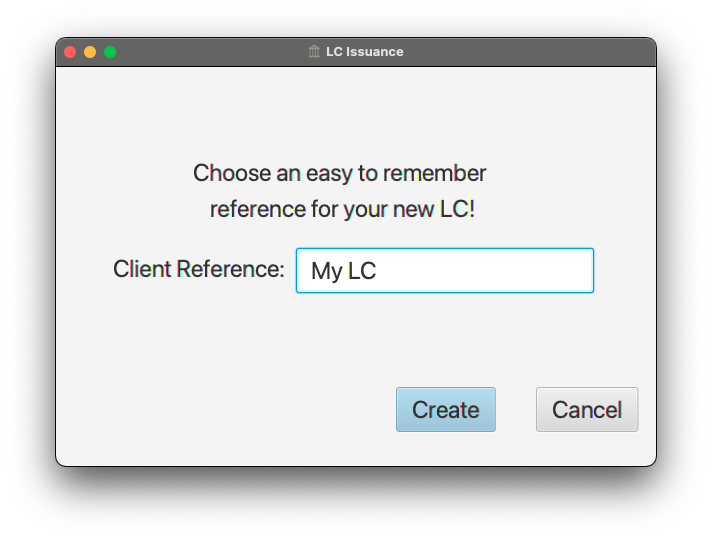
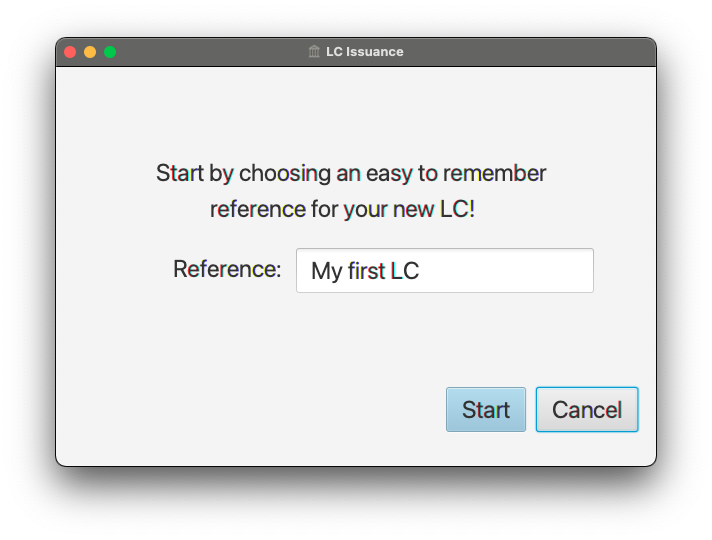
Renamed create LC to start LC

Changed region(s): [[0.1545, 0.4444, 0.8343, 0.563], [0.2163, 0.2963, 0.7725, 0.3556], [0.5562, 0.7111, 0.8961, 0.8]]

diff --git a/ch06/src/test/java/com/premonition/lc/issuance/ui/views/StartLCViewTests.java b/ch06/src/test/java/com/premonition/lc/issuance/ui/views/StartLCViewTests.java
@@ -31,7 +31,7 @@ import static org.testfx.matcher.base.NodeMatchers.isVisible;
 
 @Log4j2
 @UITest
-public class CreateLCViewTests {
+public class StartLCViewTests {
 
     @MockBean
     private BackendService service;
@@ -46,7 +46,7 @@ public class CreateLCViewTests {
 
     @Start
     public void start(Stage stage) {
-        final Parent parent = FluentViewLoader.fxmlView(CreateLCView.class)
+        final Parent parent = FluentViewLoader.fxmlView(StartLCView.class)
                 .providedScopes(new UserScope("admin"))
                 .load().getView();
         stage.setScene(new Scene(parent));
@@ -54,43 +54,42 @@ public class CreateLCViewTests {
     }
 
     @Test
-    void createShouldUpdateCreateButtonStatusBasedOnClientReferenceAsBlank(FxRobot robot) {
-        final String createButton = "#create-button";
+    void startButtonShouldBeDisabledForBlankValue(FxRobot robot) {
+        final String startButton = "#start-button";
         robot.lookup("#client-reference").queryAs(TextField.class).setText("");
 
-        verifyThat(createButton, LabeledMatchers.hasText("Create"));
-        verifyThat(createButton, NodeMatchers.isDisabled());
+        verifyThat(startButton, LabeledMatchers.hasText("Start"));
+        verifyThat(startButton, NodeMatchers.isDisabled());
     }
 
     @Test
-    void createShouldUpdateCreateButtonStatusBasedOnClientReferenceAsFilledIn(FxRobot robot) {
-        final String createButton = "#create-button";
+    void startButtonShouldBeEnabledForValidValue(FxRobot robot) {
+        final String startButton = "#start-button";
         robot.lookup("#client-reference").queryAs(TextField.class).setText("Test");
-        verifyThat(createButton, LabeledMatchers.hasText("Create"));
-        verifyThat(createButton, NodeMatchers.isEnabled());
+        verifyThat(startButton, LabeledMatchers.hasText("Start"));
+        verifyThat(startButton, NodeMatchers.isEnabled());
     }
 
     @Test
     @RunInUiThread(false)
     void shouldLaunchLCDetailsWhenCreationIsSuccessful(FxRobot robot) throws InterruptedException {
         LCApplicationId lcApplicationId = LCApplicationId.randomId();
-        when(service.createLC(anyString(), anyString())).thenReturn(lcApplicationId);
+        when(service.startNewLC(anyString(), anyString())).thenReturn(lcApplicationId);
         final String clientReference = "Test";
         robot.lookup("#client-reference").queryAs(TextField.class).setText(clientReference);
-        robot.clickOn("#create-button");
-        Mockito.verify(service).createLC("admin", clientReference);
+        robot.clickOn("#start-button");
+        Mockito.verify(service).startNewLC("admin", clientReference);
         verifyThat("#lc-details", isVisible());
         Assertions.assertTrue(((Stage) robot.window(0)).getTitle().contains(lcApplicationId.toString()));
-//        verifyThat("#client-reference", LabeledMatchers.hasText(clientReference));
     }
 
     @Test
     @RunInUiThread(false)
     void shouldStayOnCreateLCScreenOnCreationFailure(FxRobot robot) {
         final String clientReference = "Test";
-        when(service.createLC("admin", clientReference)).thenThrow(new RuntimeException("Failed!!"));
+        when(service.startNewLC("admin", clientReference)).thenThrow(new RuntimeException("Failed!!"));
         robot.lookup(".text-field").queryAs(TextField.class).setText(clientReference);
         robot.clickOn(".button");
-        verifyThat("#create-lc", isVisible());
+        verifyThat("#start-lc", isVisible());
     }
 }

diff --git a/ch06/src/test/java/com/premonition/lc/issuance/ui/viewmodels/StartLCViewModelTests.java b/ch06/src/test/java/com/premonition/lc/issuance/ui/viewmodels/StartLCViewModelTests.java
@@ -7,19 +7,16 @@ import org.junit.jupiter.api.extension.ExtendWith;
 import org.junit.jupiter.params.ParameterizedTest;
 import org.junit.jupiter.params.provider.Arguments;
 import org.junit.jupiter.params.provider.MethodSource;
-import org.junit.jupiter.params.provider.ValueSource;
-import org.junit.runners.Parameterized;
 import org.junit.runners.Parameterized.Parameters;
 import org.mockito.Mock;
 import org.mockito.junit.jupiter.MockitoExtension;
 
-import java.util.Arrays;
 import java.util.stream.Stream;
 
 import static org.assertj.core.api.Assertions.assertThat;
 
 @ExtendWith(MockitoExtension.class)
-class CreateLCViewModelTests {
+class StartLCViewModelTests {
 
     @Mock
     private BackendService service;
@@ -32,7 +29,7 @@ class CreateLCViewModelTests {
         viewModel.setUserScope(new UserScope("admin"));
     }
 
-    @Parameters(name = "{index}: For client reference \"{0}\" create disabled should be {1}")
+    @Parameters(name = "{index}: For client reference \"{0}\" start disabled should be {1}")
     public static Stream<Arguments> data() {
         return Stream.of(
                 Arguments.of(null, true),
@@ -49,29 +46,29 @@ class CreateLCViewModelTests {
     @MethodSource("data")
     void shouldTest(String clientReference, boolean expected) {
         viewModel.setClientReference(clientReference);
-        assertThat(viewModel.getCreateDisabled()).isEqualTo(expected);
+        assertThat(viewModel.getStartDisabled()).isEqualTo(expected);
     }
 
     @Test
     void shouldNotEnableCreateByDefault() {
-        assertThat(viewModel.getCreateDisabled()).isTrue();
+        assertThat(viewModel.getStartDisabled()).isTrue();
     }
 
     @Test
     void shouldNotEnableCreateIfClientReferenceLesserThanMinimumLength() {
         viewModel.setClientReference("123");
-        assertThat(viewModel.getCreateDisabled()).isTrue();
+        assertThat(viewModel.getStartDisabled()).isTrue();
     }
 
     @Test
     void shouldEnableCreateIfClientReferenceEqualToMinimumLength() {
         viewModel.setClientReference("1234");
-        assertThat(viewModel.getCreateDisabled()).isFalse();
+        assertThat(viewModel.getStartDisabled()).isFalse();
     }
 
     @Test
     void shouldEnableCreateIfClientReferenceGreaterThanMinimumLength() {
         viewModel.setClientReference("12345");
-        assertThat(viewModel.getCreateDisabled()).isFalse();
+        assertThat(viewModel.getStartDisabled()).isFalse();
     }
 }

diff --git a/ch06/src/main/java/com/premonition/lc/issuance/ui/viewmodels/CreateLCViewModel.java b/ch06/src/main/java/com/premonition/lc/issuance/ui/viewmodels/CreateLCViewModel.java
@@ -20,7 +20,7 @@ public class CreateLCViewModel implements ViewModel {
 
     private final BackendService service;
     private final StringProperty clientReference;
-    private final BooleanProperty createDisabled;
+    private final BooleanProperty startDisabled;
     private final ObjectProperty<LCApplicationId> lcApplicationId;
     @InjectScope
     private UserScope userScope;
@@ -28,10 +28,10 @@ public class CreateLCViewModel implements ViewModel {
     public CreateLCViewModel(@Value("${application.client.reference.min.length:4}") int clientReferenceMinLength,
                              BackendService service) {
         this.service = service;
-        this.clientReference = new SimpleStringProperty(this, "clientReference", "");
-        this.createDisabled = new SimpleBooleanProperty(this, "createEnabled");
+        this.clientReference = new SimpleStringProperty();
+        this.startDisabled = new SimpleBooleanProperty();
         this.lcApplicationId = new SimpleObjectProperty<>();
-        this.createDisabled.bind(createBooleanBinding(exceeds(clientReferenceMinLength),
+        this.startDisabled.bind(createBooleanBinding(exceeds(clientReferenceMinLength),
                 clientReference));
     }
 
@@ -54,16 +54,16 @@ public class CreateLCViewModel implements ViewModel {
         return clientReference;
     }
 
-    public boolean getCreateDisabled() {
-        return createDisabled.get();
+    public boolean getStartDisabled() {
+        return startDisabled.get();
     }
 
-    public void setCreateDisabled(boolean createDisabled) {
-        this.createDisabled.set(createDisabled);
+    public void setStartDisabled(boolean startDisabled) {
+        this.startDisabled.set(startDisabled);
     }
 
-    public BooleanProperty createDisabledProperty() {
-        return createDisabled;
+    public BooleanProperty startDisabledProperty() {
+        return startDisabled;
     }
 
     public LCApplicationId getLcApplicationId() {
@@ -78,8 +78,8 @@ public class CreateLCViewModel implements ViewModel {
         return lcApplicationId;
     }
 
-    public void createLC() {
-        lcApplicationId.set(service.createLC(userScope.getLoggedInUserId(), getClientReference()));
+    public void startLC() {
+        lcApplicationId.set(service.startNewLC(userScope.getLoggedInUserId(), getClientReference()));
     }
 
     void setUserScope(UserScope userScope) {

diff --git a/ch06/src/main/java/com/premonition/lc/issuance/ui/views/StartLCView.java b/ch06/src/main/java/com/premonition/lc/issuance/ui/views/StartLCView.java
@@ -16,29 +16,25 @@ import javafx.scene.Scene;
 import javafx.scene.control.Button;
 import javafx.scene.control.TextField;
 import javafx.stage.Stage;
-import lombok.extern.log4j.Log4j2;
 import org.springframework.stereotype.Component;
 
 @Component
-@Log4j2
-public class CreateLCView implements FxmlView<CreateLCViewModel> {
+public class StartLCView implements FxmlView<CreateLCViewModel> {
 
     @FXML
     private TextField clientReference;
     @FXML
-    private Button createButton;
+    private Button startButton;
 
     @InjectViewModel
     private CreateLCViewModel viewModel;
 
-    public void create(ActionEvent event) {
+    public void start(ActionEvent event) {
         new Service<Void>() {
             @Override
             protected void succeeded() {
-                log.info("LC was created successfully!");
                 Stage stage = UIUtils.getStage(event);
                 showLCDetailsView(stage);
-                log.info("LC details view was launched!");
             }
 
             @Override
@@ -46,8 +42,7 @@ public class CreateLCView implements FxmlView<CreateLCViewModel> {
                 return new Task<>() {
                     @Override
                     protected Void call() {
-                        viewModel.createLC();
-                        log.info("Backend call was successful!");
+                        viewModel.startLC();
                         return null;
                     }
                 };
@@ -68,7 +63,7 @@ public class CreateLCView implements FxmlView<CreateLCViewModel> {
 
     @Initialize
     public void initialize() {
-        createButton.disableProperty().bind(viewModel.createDisabledProperty());
+        startButton.disableProperty().bind(viewModel.startDisabledProperty());
         clientReference.textProperty().bindBidirectional(viewModel.clientReferenceProperty());
     }
 

diff --git a/ch06/src/test/java/com/premonition/lc/issuance/domain/LCApplicationAggregateTests.java b/ch06/src/test/java/com/premonition/lc/issuance/domain/LCApplicationAggregateTests.java
@@ -1,8 +1,8 @@
 package com.premonition.lc.issuance.domain;
 
-import com.premonition.lc.issuance.domain.commands.CreateLCApplicationCommand;
+import com.premonition.lc.issuance.domain.commands.StartNewLCApplicationCommand;
 import com.premonition.lc.issuance.domain.commands.SaveLCApplicationCommand;
-import com.premonition.lc.issuance.domain.events.LCApplicationCreatedEvent;
+import com.premonition.lc.issuance.domain.events.LCApplicationStartedEvent;
 import com.premonition.lc.issuance.domain.events.LCApplicationSavedEvent;
 import org.axonframework.test.aggregate.AggregateTestFixture;
 import org.axonframework.test.aggregate.FixtureConfiguration;
@@ -27,10 +27,10 @@ public class LCApplicationAggregateTests {
     void shouldPublishLCApplicationCreated() {
         fixture.given()
 
-                .when(new CreateLCApplicationCommand("admin", "My Test"))
+                .when(new StartNewLCApplicationCommand("admin", "My Test"))
 
                 .expectEventsMatching(exactSequenceOf(
-                        messageWithPayload(any(LCApplicationCreatedEvent.class)),
+                        messageWithPayload(any(LCApplicationStartedEvent.class)),
                         andNoMore()
                 ));
     }
@@ -38,9 +38,9 @@ public class LCApplicationAggregateTests {
     @Test
     void shouldSaveLCApplication() {
         final LCApplicationId id = LCApplicationId.randomId();
-        final LCApplicationCreatedEvent created = new LCApplicationCreatedEvent(id,
+        final LCApplicationStartedEvent started = new LCApplicationStartedEvent(id,
                 "test-user", "Test LC");
-        fixture.given(created)
+        fixture.given(started)
                 .when(new SaveLCApplicationCommand(id))
                 .expectEvents(new LCApplicationSavedEvent());
     }

diff --git a/ch06/src/main/java/com/premonition/lc/issuance/domain/LCApplication.java b/ch06/src/main/java/com/premonition/lc/issuance/domain/LCApplication.java
@@ -1,8 +1,8 @@
 package com.premonition.lc.issuance.domain;
 
-import com.premonition.lc.issuance.domain.commands.CreateLCApplicationCommand;
+import com.premonition.lc.issuance.domain.commands.StartNewLCApplicationCommand;
 import com.premonition.lc.issuance.domain.commands.SaveLCApplicationCommand;
-import com.premonition.lc.issuance.domain.events.LCApplicationCreatedEvent;
+import com.premonition.lc.issuance.domain.events.LCApplicationStartedEvent;
 import com.premonition.lc.issuance.domain.events.LCApplicationSavedEvent;
 import org.axonframework.commandhandling.CommandHandler;
 import org.axonframework.eventsourcing.EventSourcingHandler;
@@ -23,9 +23,9 @@ public class LCApplication {
     }
 
     @CommandHandler
-    public LCApplication(CreateLCApplicationCommand command) {
+    public LCApplication(StartNewLCApplicationCommand command) {
         // TODO: perform validations here
-        AggregateLifecycle.apply(new LCApplicationCreatedEvent(command.getId(),
+        AggregateLifecycle.apply(new LCApplicationStartedEvent(command.getId(),
                 command.getApplicantId(), command.getClientReference()));
     }
 
@@ -35,7 +35,7 @@ public class LCApplication {
     }
 
     @EventSourcingHandler
-    private void on(LCApplicationCreatedEvent event) {
+    private void on(LCApplicationStartedEvent event) {
         this.id = event.getId();
         this.state = State.DRAFT;
     }

diff --git a/ch06/src/main/java/com/premonition/lc/issuance/ui/services/BackendService.java b/ch06/src/main/java/com/premonition/lc/issuance/ui/services/BackendService.java
@@ -1,7 +1,7 @@
 package com.premonition.lc.issuance.ui.services;
 
 import com.premonition.lc.issuance.domain.LCApplicationId;
-import com.premonition.lc.issuance.domain.commands.CreateLCApplicationCommand;
+import com.premonition.lc.issuance.domain.commands.StartNewLCApplicationCommand;
 import com.premonition.lc.issuance.domain.commands.SaveLCApplicationCommand;
 import com.premonition.lc.issuance.ui.models.LCDetailsModel;
 import lombok.extern.log4j.Log4j2;
@@ -18,8 +18,8 @@ public class BackendService {
         this.gateway = gateway;
     }
 
-    public LCApplicationId createLC(String applicantId, String clientReference) {
-        final LCApplicationId id = gateway.sendAndWait(new CreateLCApplicationCommand(applicantId, clientReference));
+    public LCApplicationId startNewLC(String applicantId, String clientReference) {
+        final LCApplicationId id = gateway.sendAndWait(new StartNewLCApplicationCommand(applicantId, clientReference));
         log.info("Created LC with Ref: {}", clientReference);
         log.info("Created LC with id: {}", id);
         return id;

diff --git a/ch06/src/main/java/com/premonition/lc/issuance/domain/events/LCApplicationStartedEvent.java b/ch06/src/main/java/com/premonition/lc/issuance/domain/events/LCApplicationStartedEvent.java
@@ -5,14 +5,14 @@ import com.premonition.lc.issuance.domain.LCApplicationId;
 import lombok.Data;
 
 @Data
-public class LCApplicationCreatedEvent {
+public class LCApplicationStartedEvent {
     private final LCApplicationId id;
     private final String applicantId;
     private final String clientReference;
     private AdvisingBank advisingBank;
 
 
-    public LCApplicationCreatedEvent(LCApplicationId id, String applicantId, String clientReference) {
+    public LCApplicationStartedEvent(LCApplicationId id, String applicantId, String clientReference) {
         this.id = id;
         this.applicantId = applicantId;
         this.clientReference = clientReference;

diff --git a/ch06/src/main/java/com/premonition/lc/issuance/domain/commands/StartNewLCApplicationCommand.java b/ch06/src/main/java/com/premonition/lc/issuance/domain/commands/StartNewLCApplicationCommand.java
@@ -4,12 +4,12 @@ import com.premonition.lc.issuance.domain.LCApplicationId;
 import lombok.Data;
 
 @Data
-public class CreateLCApplicationCommand {
+public class StartNewLCApplicationCommand {
     private final String applicantId;
     private final LCApplicationId id;
     private final String clientReference;
 
-    public CreateLCApplicationCommand(String applicantId, String clientReference) {
+    public StartNewLCApplicationCommand(String applicantId, String clientReference) {
         this.id = LCApplicationId.randomId();
         this.applicantId = applicantId;
         this.clientReference = clientReference;

diff --git a/ch06/src/main/java/com/premonition/lc/issuance/ui/views/MainView.java b/ch06/src/main/java/com/premonition/lc/issuance/ui/views/MainView.java
@@ -20,7 +20,7 @@ public class MainView implements FxmlView<MainViewModel> {
     public void create(ActionEvent event) {
         Stage stage = UIUtils.getStage(event);
         stage.setTitle("LC Issuance");
-        final Parent parent = FluentViewLoader.fxmlView(CreateLCView.class)
+        final Parent parent = FluentViewLoader.fxmlView(StartLCView.class)
                 .providedScopes(viewModel.getUserScope())
                 .load()
                 .getView();
